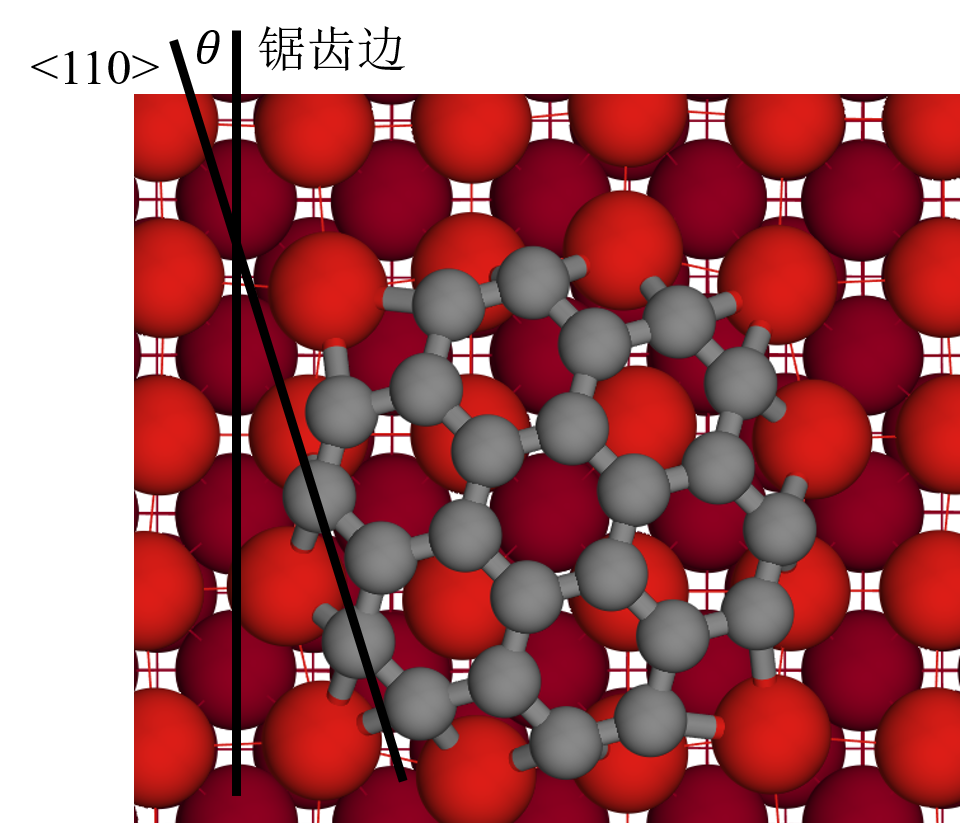
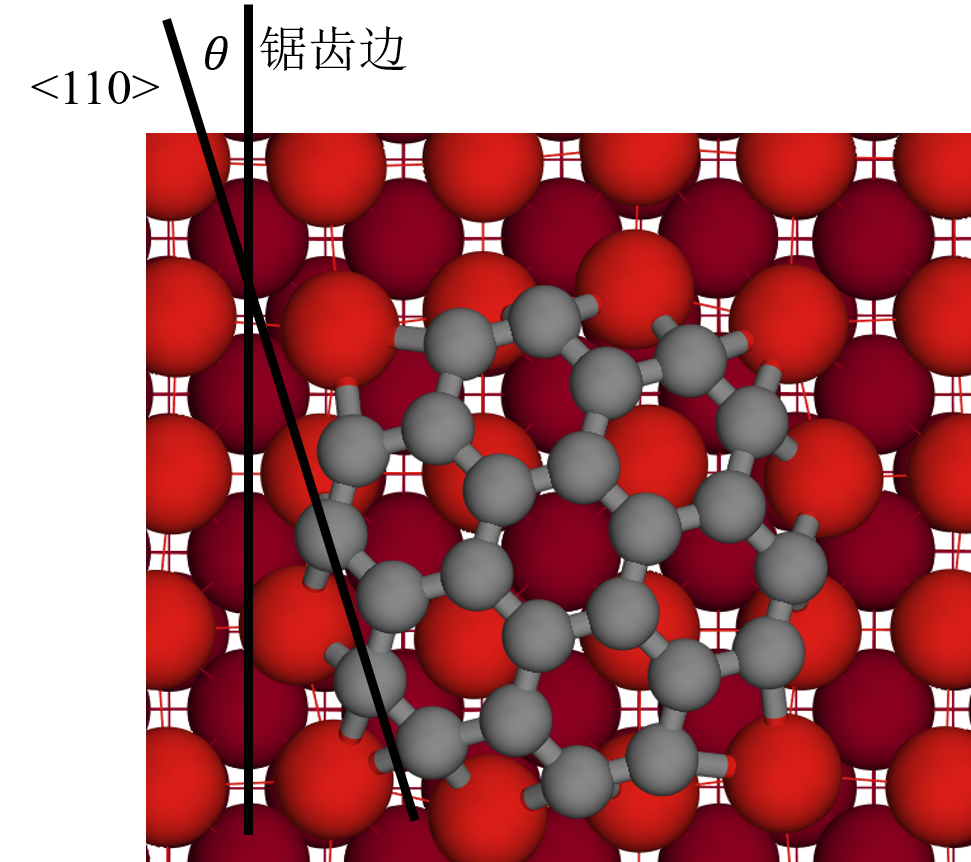
chap3 update structure fig, update (117)

diff --git a/tex/chapter/chapter3.tex b/tex/chapter/chapter3.tex
@@ -23,7 +23,6 @@
     其中，$E_{\rm{Cu+\CCluster{24}}}$为通过第一性原理计算获得的石墨烯$\CCluster{24}$团簇吸附铜衬底上的总能量，$E_{\rm{Cu}}$为单独铜衬底的能量，$E_{\rm{\CCluster{24}}}$为单独石墨烯$\CCluster{24}$团簇的能量。
     
     如图\ref{GO_calculateFlow}所示，对于不同衬底表面上石墨烯$\CCluster{24}$团簇优先生长方向的搜索以及不同生长方向的相对能量计算，我们使用全优化的方式枚举计算不同衬底表面石墨烯$\CCluster{24}$团簇的最优和次优生长方向。为了尽可能搜寻石墨烯$\CCluster{24}$团簇在不同衬底表面的能量最低构型，我们枚举了不同的生长位点，并在每个生长位点上以\SI{6}{\degree}或者\SI{3}{\degree}的间隔枚举不同的生长方向。 确定不同衬底表面石墨烯$\CCluster{24}$团簇的最优和次优生长角度后，我们使用线性插值的方式，计算最优和次优生长方向之间的石墨烯$\CCluster{24}$团簇内部的碳原子位置作为中间态。最后，通过固定碳原子XY轴，在Z轴方向优化的方式对这些固定团簇生长角度的中间态进行结构优化，获得石墨烯$\CCluster{24}$团簇在最稳和次稳生长方向之间各个生长角度的形成能$E_{\rm{f}}$。石墨烯$\CCluster{24}$团簇的生长方向以其相对于衬底的方向进行标识。考虑到本章的主要研究对象为晶面指数为$\rm{(11n)(n \geqslant 1)}$的铜衬底。$\rm{(11n)(n \geqslant 1)}$中的高指数铜衬底可以看看成由铜（100）或者铜（111）台面与<110>晶向的台阶组合而成。因此我们使用$\CCluster{24}$团簇的锯齿边（zigzag）与铜衬底表面的<110>晶向的相对夹角$\Theta$作为$\CCluster{24}$团簇的生长方向的指标（\ref{GO_relativeAngle}）。
-    %//TODO 计算流程示意图，夹角
     \begin{figure}
         \subfloat[]{
             \label{GO_calculateFlow}
@@ -42,27 +41,26 @@
 
         \begin{figure}[htbp]
             \subfloat[]{
-                \label{GO_001_15_structure_top}
-                \includegraphics[width=0.4\textwidth]{GO_C24_flat_001_15deg_structure_top.png}
-            }
-            \subfloat[]{
                 \label{GO_001_15_structure_side}
                 \includegraphics[width=0.4\textwidth]{GO_C24_flat_001_15deg_structure_side.png}
+            }
+            \subfloat[]{
+                \label{GO_001_15_structure_top}
+                \includegraphics[width=0.4\textwidth]{GO_C24_flat_001_15deg_structure_top.png}
             }
             \caption{铜（001）晶面石墨烯$\CCluster{24}$团簇的最优生长晶向（\SI{15}{\degree}）及原子构型。(a)侧视图；(b)俯视图。图中，碳原子为灰色，铜原子为红色，不同层的铜原子以不同亮度进行区分。
             }
             \label{GO_001_15_structure}
         \end{figure}
 
-        接着，我们进一步计算了$\CCluster{24}$团簇在铜（001）表面各个角度的相对形成能，结果如图\ref{GO_001_energy}所示。可以看到，$\CCluster{24}$团簇在平坦的铜（001）表面具有两个不重合的能量最小值，分别位于+15\si{\degree}和-15\si{\degree}。$\CCluster{24}$团簇在0\si{\degree}和30\si{\degree}的生长方向处于能量最高值。从能量最高的生长角度到能量最低的生长角度，$\CCluster{24}$团簇在中间态的相对能量逐渐下降。由于$\CCluster{24}$团簇在旋转至最低能态的过程中均为放热反应，因此绝大部分在成核阶段未处于最优生长方向的石墨烯晶畴会在热力学的作用下逐渐向$\pm 15$ \si{\degree} 的生长晶向靠拢。在铜（001）表面，$\pm 15$ \si{\degree} 的石墨烯$\CCluster{24}$团簇互为镜面对称，具有相同的形成能。因此在成核生长的过程中，约有一半的石墨烯畴会采取$-15$ \si{\degree}的晶向生长，而另一半则会生长为$+15$ \si{\degree}的石墨烯畴。从原子结构的角度来看，互为镜像的$\pm 15$ \si{\degree} 石墨烯畴在几何上并不重叠。在生长过程中的不同晶畴进行融合时仍会产生晶界。
+        接着，我们进一步计算了$\CCluster{24}$团簇在铜（001）表面各个角度的相对形成能，结果如图\ref{GO_001_energy}所示。可以看到，$\CCluster{24}$团簇在平坦的铜（001）表面具有两个不重合的能量最小值，分别位于+15\si{\degree}和-15\si{\degree}。$\CCluster{24}$团簇在0\si{\degree}和30\si{\degree}的生长方向处于能量最高值。从能量最高的生长角度到能量最低的生长角度，$\CCluster{24}$团簇在中间态的相对能量逐渐下降。由于$\CCluster{24}$团簇在旋转至最低能态的过程中均为放热反应，因此绝大部分在成核阶段未处于最优生长方向的石墨烯晶畴会在热力学的作用下逐渐向$\pm 15$ \si{\degree} 的生长晶向靠拢。在铜（001）表面，$\pm 15$ \si{\degree} 的石墨烯$\CCluster{24}$团簇互为镜面对称，具有相同的形成能。因此在成核生长的过程中，约有一半的石墨烯畴会采取$-15$ \si{\degree}的晶向生长，而另一半则会生长为$+15$ \si{\degree}的石墨烯畴。从原子结构的角度来看，互为镜像的$\pm 15$ \si{\degree} 石墨烯畴在几何上并不重叠，由此导致了许多实验中观察到的石墨烯晶畴的非定向生长，并且在生长过程中的不同晶畴进行融合时仍会产生晶界\citing{RN1062-2012}。
 
         \begin{figure}[htbp]
-            \includegraphics[width=0.8\textwidth]{GO_C24_flat_001_energy.png}
+            \includegraphics[width=0.8\textwidth]{pic/GO_C24_flat_001_energy.png}
             
             \caption{铜（001）晶面上不同生长角度的石墨烯$\CCluster{24}$团簇的相对形成能分布。各生长角度相对形成能的参考构型为生长角度0\si{\degree}的构型。}
             
             \label{GO_001_energy}
-            %//TODO 这个图需要origin重画
         \end{figure}
 
         而对于铜（111）面，$\CCluster{24}$团簇在其上生长的情况与在铜（001）面类似。我们同样计算了$\CCluster{24}$团簇在平坦的铜（111）表面的最优生长位点和最优生长方向。如图\ref{GO_111_structure}所示，不同于在铜（001）表面，$\CCluster{24}$团簇在平坦的铜（111）表面面上的最优生长位点为团簇中央空位垂直于铜（111）表面原子的顶端（\ref{GO_111_structure_top}）。经过优化后的$\CCluster{24}$团簇的最优生长角度为$\pm 18\si{\degree}$。$\CCluster{24}$团簇边缘的碳原子同样也和铜（111）衬底表面的铜原子形成了较强的键合，使$\CCluster{24}$团簇呈现处拱起的几何形貌。$\CCluster{24}$团簇在铜（111）表面和铜（001）表面优先生长位点和方向的不同可能是来源于不同晶面指数表面对称性的变化。对于单层的铜（001）表面，其空间对称群为$P4/mmm$，为四方对称。对于单层的铜（111）表面，其空间对称群为$P6/mmm$，为六方对称。
@@ -82,14 +80,13 @@
             
         \end{figure}
 
-        通过插值法，我们对平坦铜（111）表面的石墨烯$\CCluster{24}$团簇在最优和次优生长角度之间的中间态也进行了形成能计算（\ref{GO_111_energy}）。$\CCluster{24}$团簇在铜（111）上的次优生长方向为$\pm 30$\si{\degree}。由于衬底对称性的变化，在铜（111）表面，$0\si{\degree}$ 方向生长的$\CCluster{24}$团簇与$\pm 30\si{\degree}$方向生长的$\CCluster{24}$团簇并不等价。具体而言，遵循$0\si{\degree}$ 方向生长的$\CCluster{24}$团簇的锯齿（zigzag）边与铜（111）衬底的<110>方向平行，扶手椅（armchair）边与$<\bar{1}\bar{1}2>$方向平行。而遵循$\pm 30\si{\degree}$方向生长的$\CCluster{24}$团簇则相反，扶手椅（armchair）边与铜（111）衬底的<110>方向平行，锯齿（zigzag）边与$<\bar{1}\bar{1}2>$方向平行。铜$<\bar{1}\bar{1}2>$晶向的原子间距为$4.23 \si{\angstrom}$，高于铜<110>晶向中$2.56 \si{\angstrom}$的铜原子间距。从计算结果上看，$\pm 30\si{\degree}$方向生长的$\CCluster{24}$团簇的形成能比$0\si{\degree}$ 方向生长的$\CCluster{24}$团簇低大约$0.9\si{\electronvolt}$。与在平坦的铜（001）晶面上类似，$\CCluster{24}$团簇从任意生长角度到能量最低的$\pm 18 \si{\degree}$的中间态的能量逐渐下降。$\CCluster{24}$团簇在转向优势生长方向的过程均为放热反应，因此绝大部分在成核阶段未处于最优生长方向的石墨烯晶畴会在热力学的作用下逐渐向$\pm 18$ \si{\degree} 的生长晶向靠拢。从原子结构的角度来看，互为镜像的$\pm 18$ \si{\degree} 石墨烯畴在几何上并不重叠。在生长过程中的不同晶畴进行融合时仍会产生晶界。
+        通过插值法，我们对平坦铜（111）表面的石墨烯$\CCluster{24}$团簇在最优生长角度之间的中间态也进行了形成能计算（\ref{GO_111_energy}）。$\CCluster{24}$团簇在铜（111）上的次优生长方向为$\pm 30$\si{\degree}。由于衬底对称性的变化，在铜（111）表面，$0\si{\degree}$ 方向生长的$\CCluster{24}$团簇与$\pm 30\si{\degree}$方向生长的$\CCluster{24}$团簇并不等价。具体而言，遵循$0\si{\degree}$ 方向生长的$\CCluster{24}$团簇的锯齿（zigzag）边与铜（111）衬底的<110>方向平行，扶手椅（armchair）边与$<\bar{1}\bar{1}2>$方向平行。而遵循$\pm 30\si{\degree}$方向生长的$\CCluster{24}$团簇则相反，扶手椅（armchair）边与铜（111）衬底的<110>方向平行，锯齿（zigzag）边与$<\bar{1}\bar{1}2>$方向平行。铜$<\bar{1}\bar{1}2>$晶向的原子间距为$4.23 \si{\angstrom}$，高于铜<110>晶向中$2.56 \si{\angstrom}$的铜原子间距。从计算结果上看，$\pm 30\si{\degree}$方向生长的$\CCluster{24}$团簇的形成能比$0\si{\degree}$ 方向生长的$\CCluster{24}$团簇低大约$0.9\si{\electronvolt}$。与在平坦的铜（001）晶面上类似，$\CCluster{24}$团簇从任意生长角度到能量最低的$\pm 18 \si{\degree}$的中间态的能量逐渐下降。$\CCluster{24}$团簇在转向最优生长角度的过程均为放热反应，因此绝大部分在成核阶段未处于最优生长方向的石墨烯晶畴会在热力学的作用下逐渐向$\pm 18$ \si{\degree} 的生长晶向靠拢。从原子结构的角度来看，互为镜像的$\pm 18$ \si{\degree} 石墨烯畴在几何上并不重叠。在生长过程中的不同晶畴进行融合时仍会产生晶界。
 
         \begin{figure}[htbp]
             \includegraphics[width=0.8\textwidth]{pic/GO_C24_flat_111_energy.png}
             \caption{铜（111）晶面上不同生长角度的石墨烯$\CCluster{24}$团簇的相对形成能分布。各生长角度相对形成能的参考构型为生长角度$\pm 30$\si{\degree}的构型。
             }
             \label{GO_111_energy}
-            %//TODO 这个图需要origin重画
         \end{figure}
 
 
@@ -99,8 +96,63 @@
 
         上一小节的计算显示，对于石墨烯$\CCluster{24}$团簇，其边缘碳原子与衬底表面铜原子的相互作用产生了$\CCluster{24}$团簇的优先生长角度。进一步的计算表明，$\CCluster{24}$团簇边缘碳原子在铜衬底表面的台阶处有相比于平坦衬底更强烈的相互作用。具体而言，如果铜（001）衬底表面有一个晶向为<110>的台阶，$\CCluster{24}$团簇在台阶边缘的形成能为$E_{\rm f}^{\rm step}=-9.02 \si{\electronvolt}$，大大高于在平坦铜（001）衬底表面的形成能$E_{\rm f}^{\rm flat}=-6.24 \si{\electronvolt}$。因此，我们可以判断，石墨烯更倾向于在铜衬底的台阶处成核。
 
-        
+        对于以铜（001）为台面的$\rm{(11n)(n \geqslant 3)}$铜衬底。由于石墨烯团簇与铜衬底的相互作用主要集中在团簇边缘的未饱和碳原子。并且台阶作为台面的边缘会极大的影响石墨烯团簇与铜衬底的形成能。为了不失一般性，我们以$\CCluster{24}$团簇的直径作为参考，我们建立了三个代表性的铜衬底模型。
+        这三个模型分别对应于台面长度小于$\CCluster{24}$团簇直径的铜（115）晶面；台面长度大致等于$\CCluster{24}$团簇直径的铜（117）晶面；以及台面长度远大于小于$\CCluster{24}$团簇直径的$\rm (11X)(X \gg 7 )$晶面。
 
+        对于台面长度远大于小于$\CCluster{24}$团簇直径的$\rm (11X)(X \gg 7 )$晶面，计算结果显示当$\CCluster{24}$团簇在台阶处成核生长时$\CCluster{24}$团簇的最优成核位置位于台阶的下方（\ref{GO_11X_structure_side}和\ref{GO_11X_structure_top}），$\CCluster{24}$团簇的中央空洞位于铜（001）台面的六方密堆（hcp）位。此时一半的$\CCluster{24}$团簇边缘与铜<110>台阶成键，另一半与铜（001）台面成键。相对于在平坦的铜（001）表面，$\CCluster{24}$团簇在铜（11X）表面的两个不重叠的最优生长角度，由于台阶的作用产生了劈裂和偏移，出现了最优生长角度和次优生长角度。从\ref{GO_11X_structure_energy}中可以看到，$\CCluster{24}$团簇在铜（11X）表面的台阶处的最优生长角度为$0\si{\degree}$，次优生长角度为$\pm 30\si{\degree}$。最优和次优生长角度之间的能量差为$0.56 \si{\electronvolt}$。$\pm 30 \si{\degree}$和$0\si{\degree}$的生长角度之间，有约为$2.56\si{\electronvolt}$的旋转势垒。单一的最优生长角度使得$\CCluster{24}$团簇在铜（11X）衬底的台阶处展现出定向生长的趋势。较高的旋转势垒使得$\CCluster{24}$团簇在成核生长的过程中需要需要较高的温度才能从次优的$\pm 30 \si{\degree}$生长角度旋转至最优的$0 \si{\degree}$。同时，由于铜（11X）衬底的(001)台面具有高于$\CCluster{24}$团簇直径的宽度，因此石墨烯晶畴很可能在远离<001>台阶的位置成核生长。在远离<001>台阶的位置成核生长的石墨烯晶畴类似于在平坦铜（001）衬底的表面生长。此时生长的石墨烯晶畴则缺乏热力学上的定向趋势。因此在铜（11X）乃至于铜（001）表面很难实现石墨烯晶畴的定向生长。
+
+        \begin{figure}[htbp]
+            \subfloat[]{
+                \label{GO_11X_structure_side}
+                \includegraphics[width=0.4\textwidth]{pic/GO_11X_structure_side.png}
+            }
+            \subfloat[]{
+                \label{GO_11X_structure_top}
+                \includegraphics[width=0.4\textwidth]{pic/GO_11X_structure_top.png}
+            }
+            \quad
+            \subfloat[]{
+                \label{GO_11X_structure_energy}
+                \includegraphics[width=0.8\textwidth]{pic/GO_C24_11X_energy.png}
+            }
+            \caption{铜（11X）晶面上石墨烯$\CCluster{24}$团簇的最优生长晶向（\SI{18}  {\degree}）、原子构型以及各生长角度能量分布图。(a)最优生长晶向原子构型侧视图；(b)最优生长晶向原子构型俯视图；(c)各生长角度能量分布。图中，碳原子为灰色，铜原子为红色，不同层的铜原子以不同亮度进行区分。}
+            \label{GO_C24_11X}
+        \end{figure}
+
+        $\CCluster{24}$团簇在铜（117）以及（115）晶面的台阶处的生长情况与铜（11X）表面相似。在铜（117）晶面上，由于（001）台面的宽度与$\CCluster{24}$团簇的直径相近，$\CCluster{24}$团簇的一边与第一层台阶下边缘成键，另一层与第二层台阶的上边缘成键（\ref{GO_117_structure_side}和\ref{GO_117_structure_top}）。$\CCluster{24}$团簇在铜（117）表面的最优生长位置同样也为铜（001）台面的六方密堆（hcp）位。而对于铜（115）晶面台阶处的$\CCluster{24}$团簇生长，由于铜（115）晶面上的铜（001）台面宽度仅有2原子宽，短于$\CCluster{24}$团簇的直径，所以$\CCluster{24}$团簇无法与第一层台阶的下边缘成键（\ref{GO_115_structure_side}和\ref{GO_115_structure_top}）。导致在铜（115）晶面上，$\CCluster{24}$团簇的一边与第二层的台面成键，另一边与第三层台阶的上边缘成键。而与第二层台阶具有较强相互作用的则是位于$\CCluster{24}$团簇中部的边缘原子。
+
+        从能量的角度上看，$\CCluster{24}$团簇在铜（117）以及（115）晶面的上的最优生长角度均为$0 \si{\degree}$，次优生长角度位$\pm 30 \si{\degree}$，与铜（11X）晶面台阶处一致。在铜（117）晶面上，$\CCluster{24}$团簇在次优生长角度和最优生长角度之间的能量差为$0.43\si{\electronvolt}$。这个能量差低于$\CCluster{24}$团簇在铜（11X）晶面台阶边缘的$0.56\si{\electronvolt}$次优-最优角能量差，导致在铜（117）晶面上$\CCluster{24}$团簇从次优生长角转向最优生长角的比例不及生长在（11X）晶面台阶处的$\CCluster{24}$团簇，使得铜（117）晶面上生长的石墨烯的定向性下降。同时，$\CCluster{24}$团簇从次优的$\pm 30 \si{\degree}$生长角度转向最优的$0\si{degree}$需要克服的旋转势垒为$2.91 \si\electronvolt$，同样高于$\CCluster{24}$团簇在铜（11X）晶面台阶处的旋转势垒。较高的旋转势垒会导致$\CCluster{24}$团簇从次优生长角向最优生长角的转变难度上升，需要更多的能量或者更长的时间才能反应至最稳态。由于石墨烯晶畴的成核生长与石墨烯晶畴向最优生长角的转变是同时进行的，石墨烯晶畴的进一步生长会引入更多的边缘原子与衬底键合，可能会导致旋转势垒提高到无法依靠热能逾越的地步。因此较高的旋转势垒也可能会导致石墨烯晶畴的定向性下降。
+
+        \begin{figure}[htbp]
+            \subfloat[]{
+                \label{GO_117_structure_side}
+                \begin{overpic}[width=0.4\textwidth]{pic/GO_117_structure_side.png}
+                    \put(85,45){$(1 1 7)$}
+                \end{overpic}
+            }
+            \subfloat[]{
+                \label{GO_117_structure_top}
+                \includegraphics[width=0.4\textwidth]{pic/GO_117_structure_top.png}
+            }
+            \quad
+            \subfloat[]{
+                \label{GO_115_structure_side}
+                \begin{overpic}[width=0.4\textwidth]{pic/GO_115_structure_side.png}
+                    \put(85,40){$(1 1 5)$}
+                \end{overpic}
+            }
+            \subfloat[]{
+                \label{GO_115_structure_top}
+                \includegraphics[width=0.4\textwidth]{pic/GO_115_structure_top.png}
+            }
+            \quad
+            \subfloat[]{
+                \label{GO_C24_117_115_energy}
+                \includegraphics[width=0.8\textwidth]{pic/GO_C24_117_115_energy.png}
+            }
+            \caption{铜（117）与（115）晶面上石墨烯$\CCluster{24}$团簇的最优生长晶向、原子构型以及各生长角度能量分布图。(a)（117）晶面最优生长晶向原子构型侧视图；(b)（117）晶面最优生长晶向原子构型俯视图；(c)（115）晶面最优生长晶向原子构型侧视图；(d)（115）晶面最优生长晶向原子构型俯视图；(e)（117）与（115）晶面上$\CCluster{24}$团簇各生长角度能量分布。图中，碳原子为灰色，铜原子为红色，不同层的铜原子以不同亮度进行区分。}
+            \label{GO_C24_117_115}
+        \end{figure}
 \section{化学气氛对化学气相沉积法生长石墨烯的影响}
 \label{sec:石墨烯氧蚀刻穿透}
     \subsection{化学气相沉积法中石墨烯生长气氛模拟}

diff --git a/tex/chapter/chapter1.tex b/tex/chapter/chapter1.tex
@@ -53,7 +53,7 @@
 
     与传统材料界面处的共价键相反，纵向二维材料异质结构中各层之间相对较弱的范德华力极大地放宽了晶格匹配和化合价的要求，最终实现了更宽的异质结构匹配空间。尽管作用强度较弱，但范德华相互作用仍然主导了跨界面的各种类型的耦合。例如，电荷在界面处重新分布以平衡化学势，这会影响诸如电荷屏蔽、能带弯曲和载流子耗尽等现象。尽管传统的三维异质结构和二维范德华结构均发生界面电荷转移，但二者存在显著差异。首先，范德华界面处较小的电子交叠将电荷层间转移的过程限制为相对低效的隧穿和跳跃。其次，由于范德华界面处介电屏蔽的减少而导致激子结合能的增加，消除了传统异质结中决定电荷转移过程的能带偏移。这些因素都导致在传统异质结的理论框架下，二维材料范德华异质结中不同材料直接的电荷转移是缓慢的。但是，最近的研究发现了在部分二维材料组成的范德华异质结构中，存在超快的电荷转移过程，包括MoS$_2$/WS$_2$，MoS$_2$/石墨烯，WS$_2$/石墨烯量子点和MoS$_2$/有机分子异质结构等\citing{RN523-2017, RN308-2014, RN520-2016}。%//FIXME 检查一下这几个例子
     同时，界面耦合也会强烈地影响二维超导体的临界温度。例如，FeSe是研究最多的二维超导体之一，其体超导临界温度（Tc）约为≈8K。然而，通过在SrTiO3上生长单层FeSe，由于界面增强的电子-声子耦合，Tc显着提高到≈100K\citing{RN747-2014, RN746-2013, RN748-2018}。%//TODO 加一个纵向二维超导的例子
-    除电子耦合外，自旋自由度还引入了界面磁耦合。自旋之间的交换相互作用决定了相邻电子之间的自旋排列方式，平行或反平行，对应于铁磁和反铁磁排序。对于铁磁层和反铁磁层形成的界面，在外部磁场为零的情况下下，界面处的排序类型由交换相互作用决定。通过施加外部磁场，反铁磁性层的磁化方向可以翻转到与外部磁场平行对其。这是因为即使交换相互作用使得反铁磁性层的界面能增加，但是外部磁场平行对齐的电子自旋仍然可以使总能量下降。通过交换相互作用和超快速电荷转移，当单层WSe$_2$与CrI$_3$集成在二维纵向异质结中时，可以观察到其山谷极化得到了明显改善\citing{RN751-2018, RN752-2019}。%//FIXME 修改
+    除电子耦合外，自旋自由度还引入了界面磁耦合。自旋之间的交换相互作用决定了相邻电子之间的自旋排列方式，平行或反平行，对应于铁磁和反铁磁排序。对于铁磁层和反铁磁层形成的界面，在外部磁场为零的情况下下，界面处的排序类型由交换相互作用决定。通过施加外部磁场，反铁磁性层的磁化方向可以翻转到与外部磁场平行对齐。这是因为即使交换相互作用使得反铁磁性层的界面能增加，但是外部磁场平行对齐的电子自旋仍然可以使总能量下降。通过交换相互作用和超快速电荷转移，当单层WSe$_2$与CrI$_3$集成在二维纵向异质结中时，可以观察到其山谷极化得到了明显改善\citing{RN751-2018, RN752-2019}。%//FIXME 修改
 
     而对于横向二维异质结，其独特的结构使之具有许多出色的性能，在应用方面同样也具有广阔的前景。它们的电子特性也得到了广泛研究[29,38]。利用 MoS$_2$-NbS$_2$ 横向异质结中的交错禁带和弱耦合状态产生的传输间隙，可以制造出开关电流比为 $10^6 \sim 10^7$，漏电流约为 108 \si{\micro\ampere} 的场效应晶体管[25]；利用其纳米尺寸和多组分光学性质，横向 TMD 异质结可以用作单分子探测以及制造具有可调光响应的纳米器件[39]；基于 WSe2-WS2 横向异质结的 p-n 结二极管和光电二极管，表现出了良好的整流特性并能产生较大的光电流[40]；这些独特的优异性能使得横向二位异质结为制造更高性能互补逻辑电路、高频器件、及光电探测器等电子、光电子器件带来了新的可能。同时，由于横向二维异质结中普遍存在的自旋过滤效应，进一步推动了自旋电子学的发展。例如 ZGNR/g-C$_3$N$_4$ 和 h-BN/graphene 构建的异质结，都有着极高的自旋过滤效率[41]。组成横向异质结的两种材料之间的界线，其进一步降低的维数还可以带来更多的激发态物理性质 [29] 。
     %//FIXME 引用
@@ -67,7 +67,7 @@
     为了克服自顶向下合成方法的缺陷，研究者探索了通过自底向上的方式合成二维材料。不同于需要相应块体材料的自顶向下的制备方式，二维材料自底向上的合成方法使用含有相应原子的前驱体，在衬底或者溶液中直接生长二维材料。使用自底向上合成的思路，已有包括物理气相沉积法（PVD)、化学气相沉积法(CVD)、原子层外延法（ALE）等方法被用于合成二维材料\citing{RN1029-2021}。虽然以物理气相沉积法、化学气相沉积法为代表的自底向上的方式合成的二维材料兼具高质量和可大规模生产的特点，但相对于机械剥离和化学剥离等自顶向下的合成方法，自底向上的合成方法通常需要如高真空、高温等更为严苛的合成环境，更加复杂的处理步骤。也因如此，二维材料的质量对自底向上合成方法的生长参数非常敏感，实验人员需要通过精确的参数调控，设计复杂的反应过程才能生长出理想的高质量大规模的二维材料\citing{RN1028-2019,RN1027-2018}。
     物理气相沉积法使用加热、离子撞击等方式使目标原子从靶材中脱离。脱离的气态原子在高真空的条件下附着在衬底上生在二维材料。针对二维材料的合成，常用的物理气相沉积法包括溅射法，分子束外延法（MBE），激光脉冲沉积法（PLD）等。其中，分子束外延法可以对生长的二维材料的层数、表面结构以及化学计量数等形貌参数加以最高精度的控制。也正因如此，为了得到更好的生长质量，分子束外延的生长速率通常较低。在分子束外延法中，原子在超高真空的环境下从克鲁森（Knudsen）容器或者电子束蒸发器中蒸发出来，沉积在基板上成核，生长城二维材料。由于超高真空的环境，分子束外延生长过程中，研究者可以通过反射式高能电子衍射（RHEED）等表面探测技术对生长中的二维材料进行原位观测，使研究者可以在生长过程中精细调控生长参数，进一步优化二维材料的生长质量。如今，分子束外延法已用于生长SnSe$_2$\citing{RN1031-2016}，InSb\citing{rn1030-2016}，NbSe$_2$\citing{RN1032-2021}，Bi$_2$Se$_3$\citing{RN1033-2016}，硅烯\citing{RN1034-2019}，铋烯\citing{RN1035-2022}等二维材料。若将分子束外延的蒸发装置替换为激光脉冲器（PLD），就能够将靶材表面在极短的时间内气化，使靶材表面产生高温高压的等离子体。这些高能等离子体扩散至衬底表面沉积生长二维材料及二维异质结。在激光脉冲沉积的过程中，激光与靶材相互作用产生的等离子体具有比蒸发器产生的原子蒸气更高的能量，因此也具有更大的扩散距离。等离子体较高的动能能够显著增强材料的二维生长趋势，使得激光脉冲沉积法能够在更低的衬底温度下生长二维材料及二维异质结。此外，激光脉冲极短的气化时间使得产生的高能等离子体具有和靶材相同的化学计量比，很大程度上能够杜绝成分优先蒸发效应，使得生长出的二维材料及二维异质结能够保持与靶材相同的成分。利用激光脉冲沉积法，研究者已经成功制备了包括石墨烯、六方氮化硼、铟硒在内的多种二维材料。%//TODO PLD 二维材料
 
-    根据经典的薄膜生长理论，外延生长的薄膜通常表现出三种生长模式\chinesecolon Volmer-Weber生长模式（VW模式），Frank-van der Merwe生长模式（FM模式）以及Stranski-Krastanow生长模式（SK模式）。考虑二维材料的自由能$\gamma_{ad}$，衬底表面的自由能$\gamma_{sub}$以及二维材料及衬底之间界面的自由能$\gamma_{inter}$之间的竞争关系，二维材料在衬底上通常表现出FM的生长模式以及SK的生长模式。当沉积的二维材料与衬底之间有很强的相互作用时，有$\gamma_{ad}+\gamma_{inter}<\gamma_{sub}$。二维材料表现出层状生长的倾向，被称为FM模式。在异质外延系统中FM模式的出现通常意味着二维材料与衬底材料之间的较好的晶格匹配。在FM模式下，二维材料通过多点二维岛融合或者单原子台阶生长的方式进行平面化生长。通常，研究者会调整温度、前驱体种类、衬底适配程度等生长参数，将二维材料的生长模式转变为FM模式，以此进行大面积，高质量的二维材料生长。当材料与衬底之间的晶格差距较大、相互作用较弱，又具有非常高的表面能时，生长材料的表面能与界面能之和会高于衬底的表面能，此时就会表现出岛状的生长模式（VW模式），这种模式通常不利于二维材料的生长。而对于二维材料的SK生长模式中，单层的二维材料首先进行层状生长，形成浸润层。直到二维材料覆盖满衬底并超过临界层数后，外延生长的衬底转变为已生长的二维材料，此时生长过程中的表面能和界面能的竞争关系发生变化，展现出岛状生长的模式。由于浸润层和临界层数的存在，利用SK生长模式可以获得大规模且均匀性较高的的少层二维材料，同时也能够对二维材料生长的层数进行一定调控。%//TODO 引用
+    根据经典的薄膜生长理论，外延生长的薄膜通常表现出三种生长模式\chinesecolon Volmer-Weber生长模式（VW模式），Frank-van der Merwe生长模式（FM模式）以及Stranski-Krastanow生长模式（SK模式）。考虑二维材料的自由能$\gamma_{ad}$，衬底表面的自由能$\gamma_{sub}$以及二维材料及衬底之间界面的自由能$\gamma_{inter}$之间的竞争关系，二维材料在衬底上通常表现出FM的生长模式以及SK的生长模式。当沉积的二维材料与衬底之间有很强的相互作用时，有$\gamma_{ad}+\gamma_{inter}<\gamma_{sub}$。二维材料表现出层状生长的倾向，被称为FM模式。在异质外延系统中FM模式的出现通常意味着二维材料与衬底材料之间的较好的晶格匹配。在FM模式下，二维材料通过多点二维岛融合或者单原子台阶生长的方式进行平面化生长。通常，研究者会调整温度、前驱体种类、衬底适配程度等生长参数，将二维材料的生长模式转变为FM模式，以此进行大面积，高质量的二维材料生长。当材料与衬底之间的晶格差距较大、相互作用较弱，又具有非常高的表面能时，生长材料的表面能与界面能之和会高于衬底的表面能，此时就会表现出岛状的生长模式（VW模式），这种模式通常不利于二维材料的生长。而对于出于SK生长模式中的二维材料，单层的二维材料首先进行层状生长，形成浸润层。直到二维材料覆盖满衬底并超过临界层数后，外延生长的衬底转变为已生长的二维材料，此时生长过程中的表面能和界面能的竞争关系发生变化，展现出岛状生长的模式。由于浸润层和临界层数的存在，利用SK生长模式可以获得大规模且均匀性较高的的少层二维材料，同时也能够对二维材料生长的层数进行一定调控。%//TODO 引用
 
     化学气相沉积法现在已经成为以石墨烯为代表的二维材料的主要合成方法。通过精确的生长条件控制，化学气相沉积法能够在较低的成本下同时满足二维材料合成的高质量和大批量的要求。化学气相沉积法利用气态的前驱体在受控的气氛中分解，在衬底上反应生长相应的二维材料。相比于以分子束外延为代表的物理气相沉积法生长二维材料，化学气相沉积法可以既可以在低压下制备二维材料，也可以在常压下生长二维材料，同时也具有更快的生长速率。在化学气相沉积法中，由于前驱体在气相和衬底表面同步发生反应，所以衬底的选择，生长温度的变化，压力的大小，前驱体计量比的改变，甚至是衬底与生长源的距离都会对二维材料的生长演化过程，生长层数，晶粒尺寸，生长形貌以及参杂浓度等指标产生影响。以石墨烯为例，自2009年研究者首次在铜衬底上使用化学气相沉积法大规模生长高质量的石墨烯以来\citing{RN801-2009}，已有多种金属衬底（Cu，Ni，Ru，Ir，Co等）被用于生长单层或者多层石墨烯。%//TODO 引用
 
@@ -99,4 +99,4 @@
 %//TODO
 
 \section{本论文研究的主要思路及内容}
-%//TODO
+%//TODO 本文的主要研究思路

diff --git a/tex/main.tex b/tex/main.tex
@@ -1,6 +1,7 @@
 
 \documentclass[doctor]{thesis-uestc}
 \usepackage{siunitx}
+\usepackage[percent]{overpic}
 \DeclareSIUnit\angstrom{\text{Å}}
 \title{二维材料及其异质结的生长理论研究}{Growth mechanism of two-dimensional materials and heterostructures}
 
